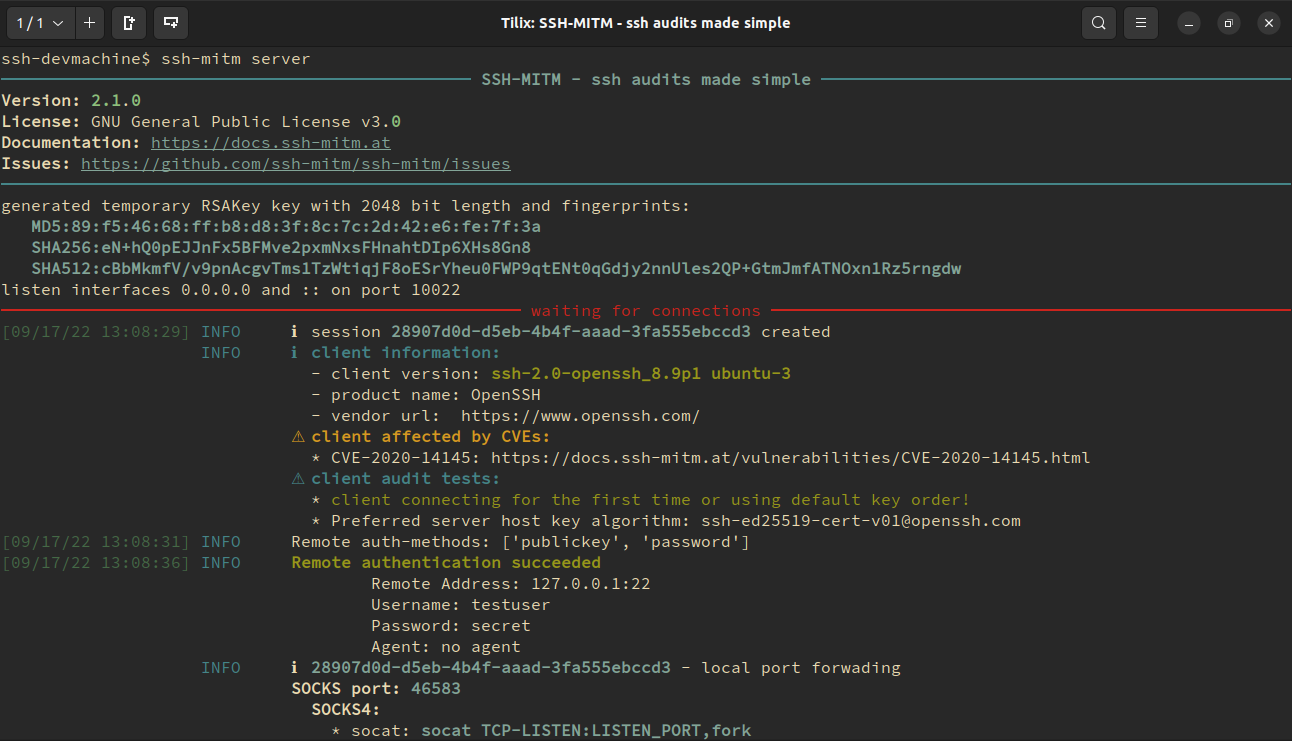
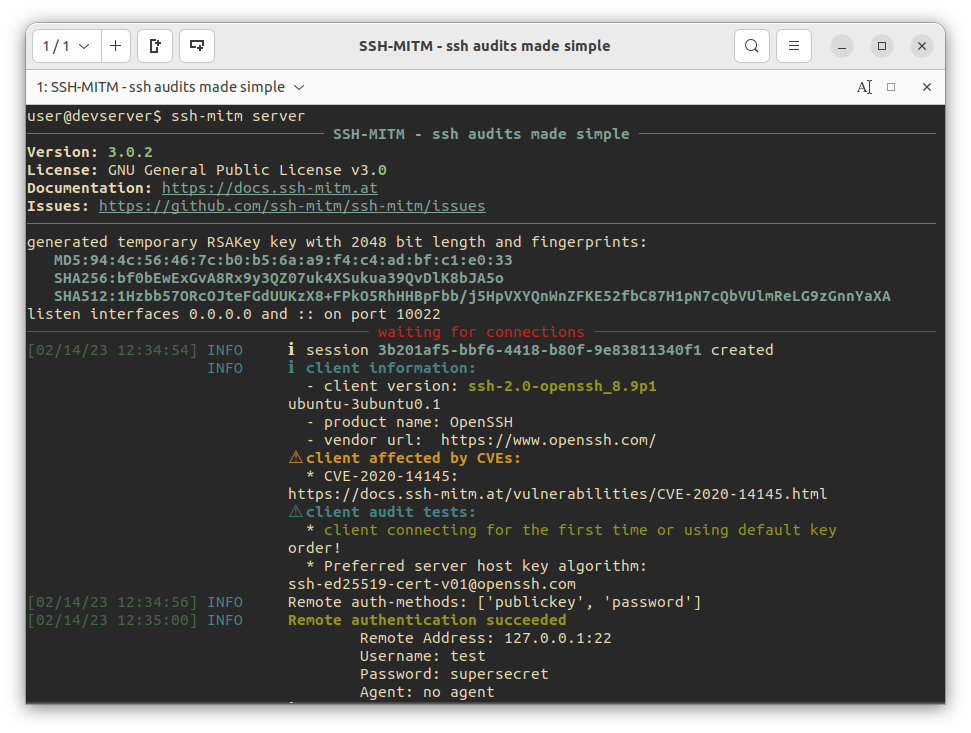
set version to 3.0.2

diff --git a/sshmitm/__version__.py b/sshmitm/__version__.py
@@ -1,1 +1,1 @@
-version: str = '3.0.1'
+version: str = '3.0.2'

diff --git a/CHANGELOG.md b/CHANGELOG.md
@@ -7,6 +7,8 @@ and this project adheres to [Semantic Versioning](https://semver.org/spec/v2.0.0
 
 ## [Unreleased]
 
+## [3.0.2] - 2023-02-14
+
 ### Added
 
 - added requirements.txt which pins the tested packages
@@ -363,7 +365,8 @@ and this project adheres to [Semantic Versioning](https://semver.org/spec/v2.0.0
 
 - fixed pseudo terminal on exec command
 
-[Unreleased]: https://github.com/ssh-mitm/ssh-mitm/compare/3.0.1...master
+[Unreleased]: https://github.com/ssh-mitm/ssh-mitm/compare/3.0.2...master
+[3.0.2]: https://github.com/ssh-mitm/ssh-mitm/compare/3.0.1...3.0.2
 [3.0.1]: https://github.com/ssh-mitm/ssh-mitm/compare/3.0.0...3.0.1
 [3.0.0]: https://github.com/ssh-mitm/ssh-mitm/compare/2.1.0...3.0.0
 [2.1.0]: https://github.com/ssh-mitm/ssh-mitm/compare/2.0.5...2.1.0

diff --git a/README.md b/README.md
@@ -4,7 +4,7 @@
 <h1 align="center"> SSH-MITM - ssh audits made simple </h1>
 <p align="center">
   <a href="https://docs.ssh-mitm.at">
-    <img alt="SSH-MITM intercepting password login" title="SSH-MITM" src="https://docs.ssh-mitm.at/_images/ssh-mitm-password.png#20220917" >
+    <img alt="SSH-MITM intercepting password login" title="SSH-MITM" src="https://docs.ssh-mitm.at/_images/ssh-mitm-password.png#20230214" >
   </a>
   <p align="center">ssh man-in-the-middle (ssh-mitm) server for security audits supporting<br> <b>publickey authentication</b>, <b>session hijacking</b> and <b>file manipulation</b></p>
   <p align="center">
